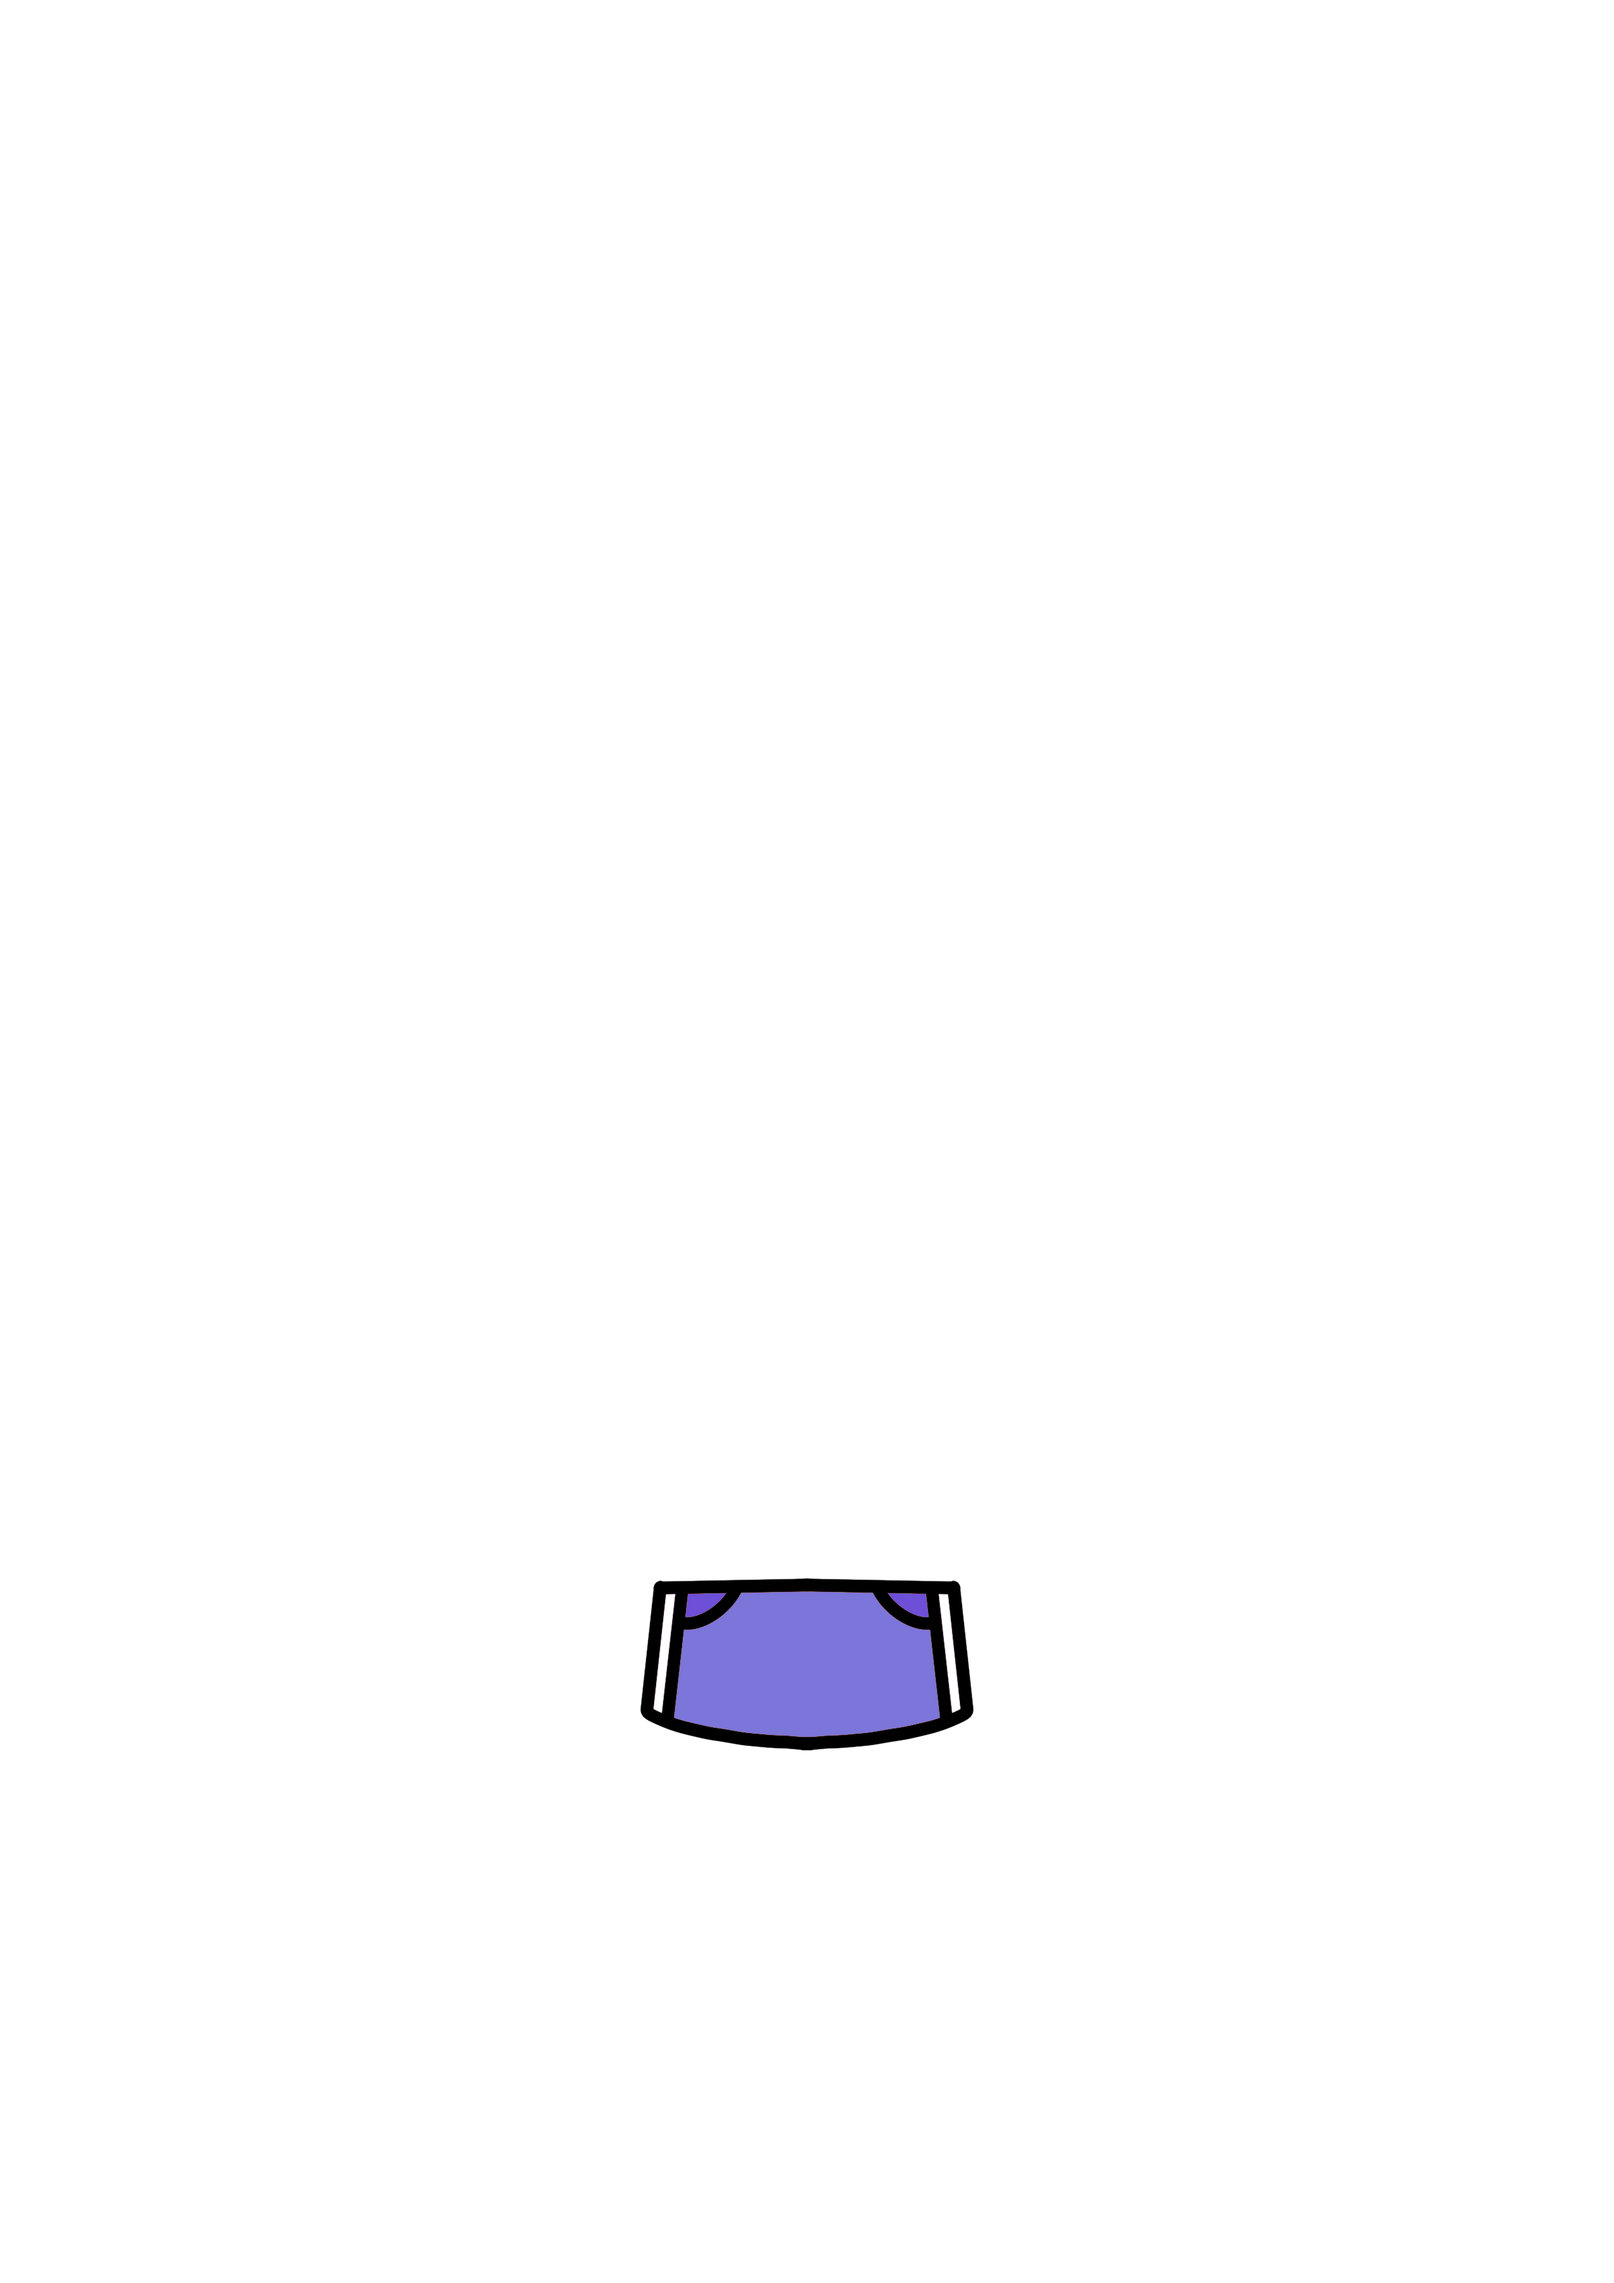
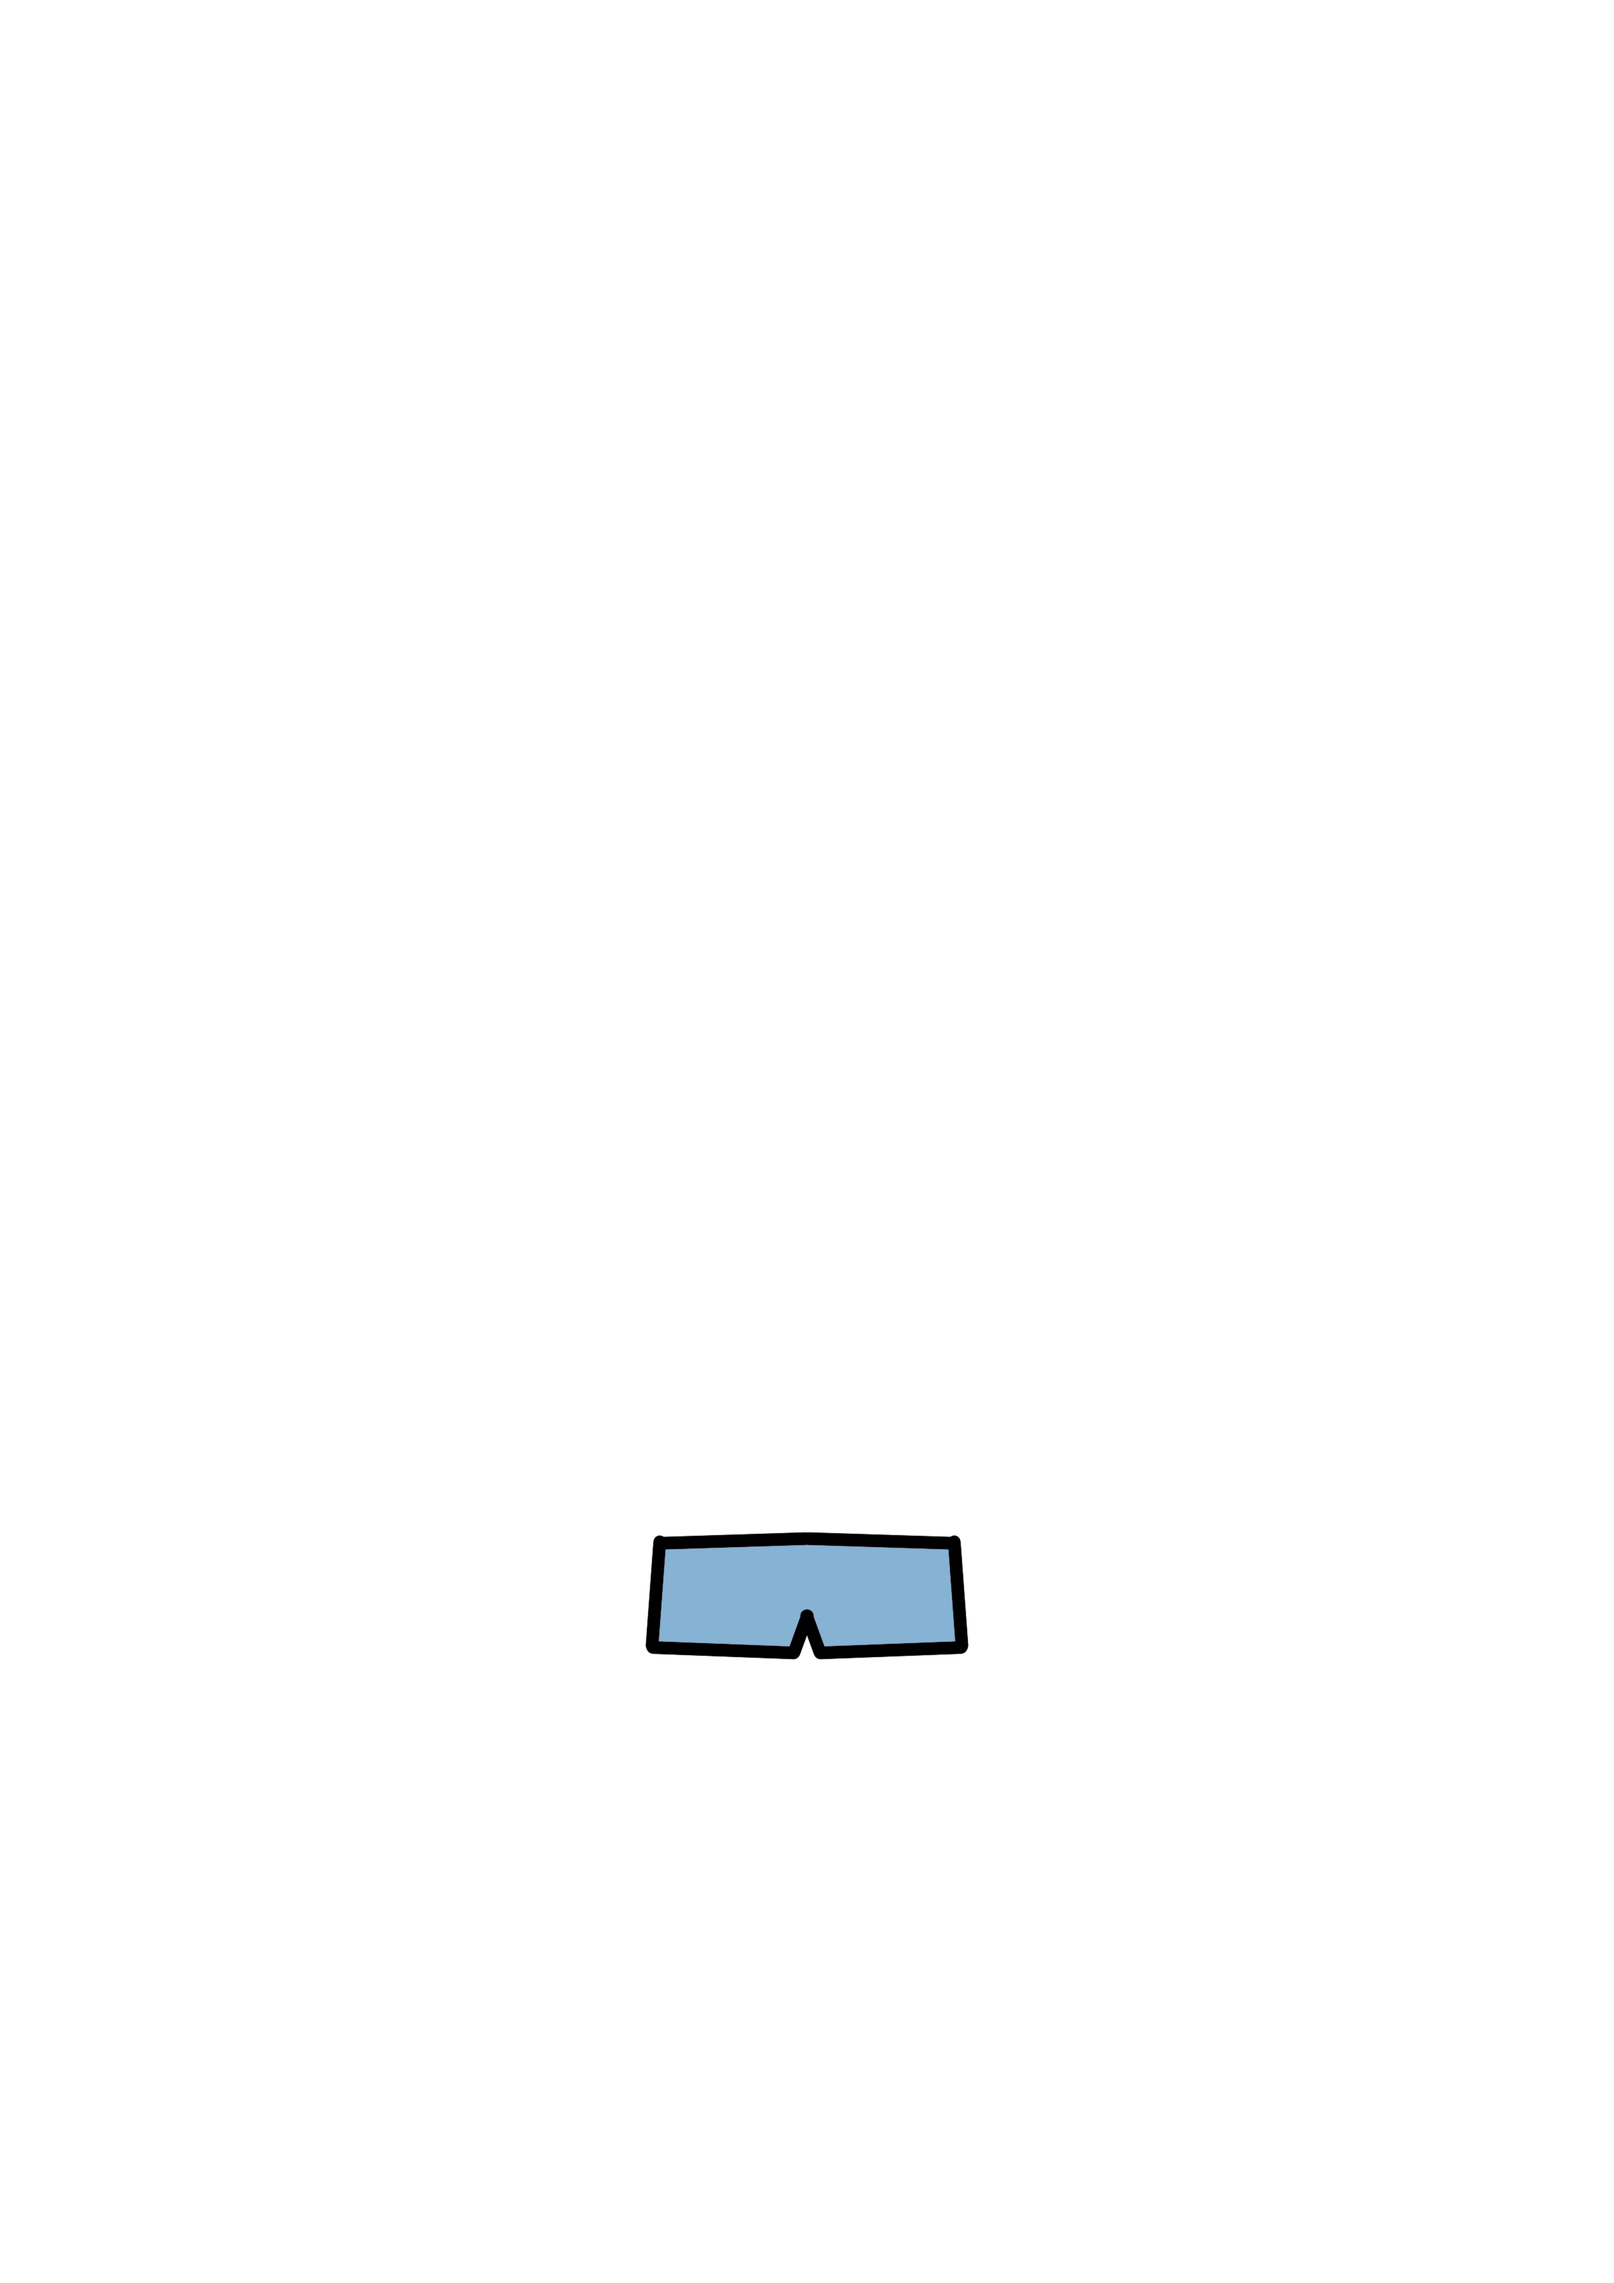
新增系統流程畫面

Changed region(s): [[0.3726, 0.6525, 0.621, 0.7768]]

diff --git a/Running-Kid/page/Game/wardrobe.js b/Running-Kid/page/Game/wardrobe.js
@@ -49,11 +49,11 @@ export default function Wardrobe({navigation}) {
                             </TouchableOpacity>
                             <TouchableOpacity>
                                 <View style={{height:50,width:100,justifyContent:'center',alignItems:'center'}}>
-                                    <Text  style={{fontFamily:'BpmfGenSenRounded-H',color:'#117c72'}}>下衣</Text>
+                                    <Text  style={{fontFamily:'BpmfGenSenRounded-H',color:'#117c72'}}>下著</Text>
                                 </View>
                             </TouchableOpacity>
                         </View>
-                        <View style={{width:340,flex:1,flexDirection:'row',justifyContent:'space-around'}}>
+                        <View style={{width:340,flex:1,flexDirection:'row',justifyContent:'space-around',borderBottomWidth:1,borderColor:'#696969',paddingBottom:10}}>
                             <TouchableOpacity>
                                 <View style={{height:50,width:100,justifyContent:'center',alignItems:'center'}}>
                                     <Text  style={{fontFamily:'BpmfGenSenRounded-H',color:'#117c72'}}>表情</Text>
@@ -71,23 +71,24 @@ export default function Wardrobe({navigation}) {
                             </TouchableOpacity>
                         </View>
                         <View style={{flex:4,justifyContent:'flex-start',flexDirection:'row'}}>
-                            <View style={{flex:1,borderRadius:20,alignItems:'center',justifyContent:'center'}}>
+                            <View style={{flex:1,borderRadius:20,alignItems:'center',justifyContent:'center',borderWidth:2}}>
                                 <Image
                                     source={require('../../assets/game_man/hair0.png')}
                                     style={{width:150,height:100}}></Image>
-                                <Text>20元</Text>
+                                    <Text style={{fontFamily:'BpmfGenSenRounded-H',marginTop:10}}>配戴中</Text>
+                              
                             </View>
                         <View style={{width:100,flex:1,borderRadius:20,alignItems:'center',justifyContent:'center'}}>
                             <Image
-                                    source={require('../../assets/game_man/hair0.png')}
+                                    source={require('../../assets/game_man/hair1.png')}
                                     style={{width:150,height:100}}></Image>
-                                    <Text>30元</Text>
+                                   
                         </View>
                             <View style={{width:100,flex:1,borderRadius:20,alignItems:'center',justifyContent:'center'}}>
                             <Image
-                                    source={require('../../assets/game_man/hair0.png')}
+                                    source={require('../../assets/game_man/hair2.png')}
                                     style={{width:150,height:100}}></Image>
-                                    <Text>50元</Text>
+                                    
                             </View>
 
                         </View>
@@ -95,29 +96,24 @@ export default function Wardrobe({navigation}) {
                           
                                 <View style={{width:100,flex:1,borderRadius:20,alignItems:'center',justifyContent:'center'}}>
                                 <Image
-                                        source={require('../../assets/game_man/hair0.png')}
+                                        source={require('../../assets/game_man/hair3.png')}
                                         style={{width:150,height:100}}></Image>
-                                        <Text>50元</Text>
+                                        
                                 </View>
                            
                           
                                 <View style={{width:100,flex:1,borderRadius:20,alignItems:'center',justifyContent:'center'}}>
-                                <Image
-                                        source={require('../../assets/game_man/hair0.png')}
-                                        style={{width:150,height:100}}></Image>
-                                        <Text>50元</Text>
+                              
                                 </View>
                            
                            
                                 <View style={{width:100,flex:1,borderRadius:20,alignItems:'center',justifyContent:'center'}}>
-                                <Image
-                                        source={require('../../assets/game_man/hair0.png')}
-                                        style={{width:150,height:100}}></Image>
-                                        <Text>50元</Text>
+            
                                 </View>
                            
 
                         </View>
+
                         <View style={{flex:4,justifyContent:'space-around',flexDirection:'row'}}>
                             <View style={{width:100,flex:1,borderRadius:20}}></View>
                             <View style={{width:100,flex:1,borderRadius:20}}></View>

diff --git a/Running-Kid/page/index/indexpage.js b/Running-Kid/page/index/indexpage.js
@@ -59,26 +59,10 @@ export default function  Indexp({navigation}) {
               onPress={() => {setModalVisible1(false),setTodayMi(0.1),areaAct('taipei'),navigation.navigate('Run_solo')}}
             >
               <View style={styles.modalButton_on}>
-                <Text style={styles.modalText}>個人跑步</Text>
+                <Text style={styles.modalText}>開始跑步</Text>
               </View>
              </TouchableOpacity>
 
-             <TouchableOpacity
-              style={{ ...styles.openButton}}
-              disabled={true}
-              onPress={() => {
-                setModalVisible2(true);
-                setModalVisible1(!modalVisible1);
-              }}
-            >
-             <View style={styles.modalButton_off}>
-                <Text style={styles.modalText}>加入房間</Text>
-              </View>
-              </TouchableOpacity>
-
-              <View style={styles.modalButton_off}>
-                <Text style={styles.modalText}>創立房間</Text>
-              </View>
            
           
         </ImageBackground>
@@ -121,13 +105,11 @@ export default function  Indexp({navigation}) {
           source={require('./img/taiwan.png')}
           >
 
-          <Image
+          <ImageBackground
           style={styles.taiwan_part} 
           source={imageSource}
           />
 
-
-       
 
           </ImageBackground>
         </TouchableOpacity>

diff --git a/Running-Kid/page/index/index_style.js b/Running-Kid/page/index/index_style.js
@@ -19,10 +19,7 @@ const styles = StyleSheet.create({
       width:'100%',
       height:750,
       flex:1,
-      left:0,
-      right:0,
-      top:0,
-      bottom:0,
+     marginLeft:0,
       justifyContent: 'center',
       alignItems: 'center',
       backgroundColor:'#7AB8CC'
@@ -47,7 +44,8 @@ const styles = StyleSheet.create({
   
     taiwan:{
       flex:2,
-      width:320,
+      width:330,
+      marginLeft:40,
       height:500,
       resizeMode:'cover',
       justifyContent: 'center',
@@ -56,7 +54,7 @@ const styles = StyleSheet.create({
   
     taiwan_part:{
       flex:2,
-      width:320,
+      width:300,
       marginRight:2,
       marginBottom:35,
       height:500,
@@ -68,7 +66,7 @@ const styles = StyleSheet.create({
     center:{
       flex: 2,
       height:500,
-      width:320,
+      width:330,
       resizeMode:"cover",
       justifyContent: 'center',
       alignItems: 'center',
@@ -116,7 +114,7 @@ const styles = StyleSheet.create({
     modalView: {
       margin: 20,
       width:300,
-      height:350,
+      height:150,
       backgroundColor: "white",
       borderRadius:50,
       overflow: 'hidden',

diff --git a/Running-Kid/page/Game/game.js b/Running-Kid/page/Game/game.js
@@ -44,10 +44,10 @@ export default function Game({navigation}) {
                              source={require('../../assets/game_man/hair0.png')}>
                                 <ImageBackground
                                     style={styles.img_center}
-                                    source={require('../../assets/game_man/pant0.png')}>
+                                    source={require('../../assets/game_man/short0.png')}>
                                         <ImageBackground
                                           style={styles.img_center}
-                                          source={require('../../assets/game_man/vest0.png')}>
+                                          source={require('../../assets/game_man/pant0.png')}>
                                         
                                          </ImageBackground>
                                 </ImageBackground>

diff --git a/Running-Kid/page/mission/Components/TextBox.js b/Running-Kid/page/mission/Components/TextBox.js
@@ -38,14 +38,14 @@ function Mission_farm2(){
     
   <View style={styles.textbox}>
     <Text style={styles.text}>交一個新朋友</Text>
-    <ProgressBar progress={0} style={styles.probarStyle} color={'#FEBC5F'}/> 
+    <ProgressBar progress={1} style={styles.probarStyle} color={'#FEBC5F'}/> 
     <View style={{flexDirection:"row"}}>
       <Image
       source={require('../../../assets/icon-money.png')}
       style={styles.money}/>
       <Text flex={1} style={{fontSize:20}}> 10 </Text>
     </View>
-    <TouchableOpacity style={styles.button_off} onPress={showAlert}>
+    <TouchableOpacity style={styles.button_on} onPress={showAlert}>
       <Text style={{fontSize:20,color:"#FFFFFF",fontFamily:'BpmfGenSenRounded-L'}}>領取獎勵</Text>
     </TouchableOpacity>
   </View>
